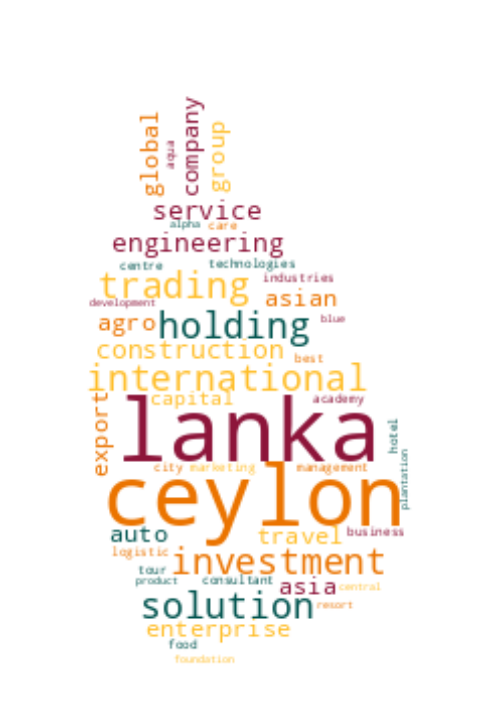
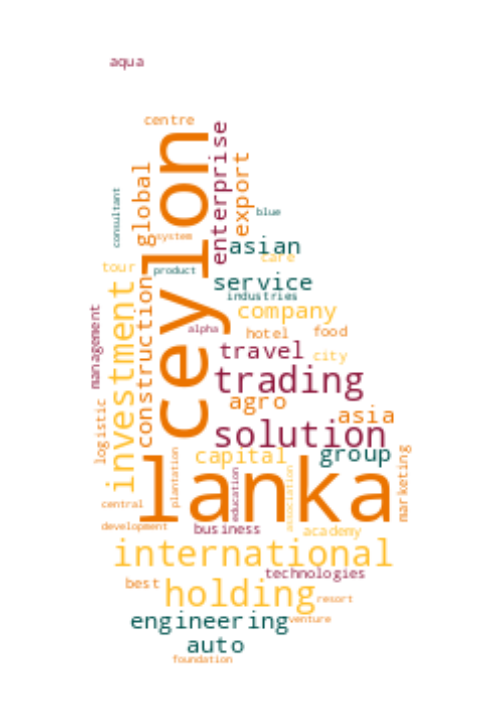
pipeline Sun Dec  3 23:23:02 UTC 2023

Changed region(s): [[0.1818, 0.1197, 0.8485, 0.9573], [0.2121, 0.0598, 0.303, 0.1197]]

diff --git a/README.md b/README.md
@@ -4,40 +4,40 @@ Data Scraped from Registrar of Companies - Sri Lanka (https://eroc.drc.gov.lk)
 
 ![word-cloud](data/word_cloud.png)
 
-Scraped **20,243** Companies as of *2023-12-04 04:38:05*.
+Scraped **20,280** Companies as of *2023-12-04 04:53:01*.
 
 ## List of 30 Random Companies
 
-* ACADEMY OF DESIGN - PV17079
-* ACROBAT BROTHERS - PV82782
-* AFFIX TECHNOLOGIES - PV00231558
-* AGRO LAKA PRODUCE - PV90086
-* AINTREE HOLDINGS - PV73620
-* ALLURE LANKA HOLDING - PV00282051
-* AMBEWELA PRODUCTS - PV2165
-* ARHAM INTERNATIONAL - PV00280489
-* ART LOGISTICS - PV94397
-* ASELCO - PV17989
-* ASIL INFOTECH - PV00224317
-* ASIRI HOLDINGS LANKA - PV61884
-* AURA  LANKA  HERBALS - PV00202472
-* AUTOWIN MOTORS - PV96546
-* AVANTIS GLOBAL - PV00247956
-* AVNI SOLUTIONS - PV00228825
-* AVOZ CLOTHING CO - PV00250564
-* AZIMUTH GLOBAL - PV118376
-* BAVARIAN GUEST HOUSE - PV21066
-* BEARD ARMOUR - PV00268783
-* BLISSORA - PV00266096
-* CAMAGNI CEYLON - PV111763
-* CAPITAL LINKS INTERNATIONAL - PV00289556
-* CARING HANDS CENTER ORGANIZATION - GA2407
-* CASTLE POWER HOUSE - PV20987
-* CEYLON IMPRESSIONS - PV88657
-* CEYLON NANO DIAGNOSTICS - PV00242732
-* CEYLON TASTY SECRETS - PV00259902
-* CHAMSHA INTERNATIONAL - PV64950
-* CHENU SPA - PV00262617
+* AAROGYA LANKA - PV00254811
+* ACCELERATE COLOMBO - PV00283797
+* ADAM INVESTMENTS - PV78150PQ
+* ADVENT LOGISTICS LANKA - PV65857
+* AGRI NATURE PLANTATION - PV00245402
+* AGRO TRADING LANKA - PV7283
+* ALEPH TECHNOLOGIES - PV00221122
+* ALL MART - PV00267479
+* ALWIS EMPLOYERS - PV00258432
+* AMBANCO HOUSING & DEVELOPMENTS - PV94682
+* AMRITA APPARELS - PV9818
+* ANETA LANKA - PV00224626
+* ANTI CANCER NATURAL MEDICATION - PV74219
+* AQUATIC - PV00271004
+* ATHURALIYA HOLDINGS - PV127259
+* AUTO AIR CON ENGINEERING - PV63447
+* AUTO LINER - PV00247862
+* AXTON ASSET MANAGEMENT - PV00242761
+* AYAAN EXIM - PV00236364
+* BAWABHA - PV00218370
+* BHARTI AIRTEL LANKA - PV10652
+* BOAT LODGE VILLA - PV118487
+* BUCOLIC ORGANIC FARMS - PV00248819
+* CAMORON HOLDINGS - PV129784
+* CARFIX - PV00266611
+* CHRISSWORLD - PQ00244471
+* CHTHURANGA HOLDINGS - PV102171
+* CINNAMON FENCE APARTMENTS - PV94090
+* CITY OFFICE AUTOMATION - PV111085
+* CITY TRADE MART - PV61699
 
 ## List of Early Registrations
 
